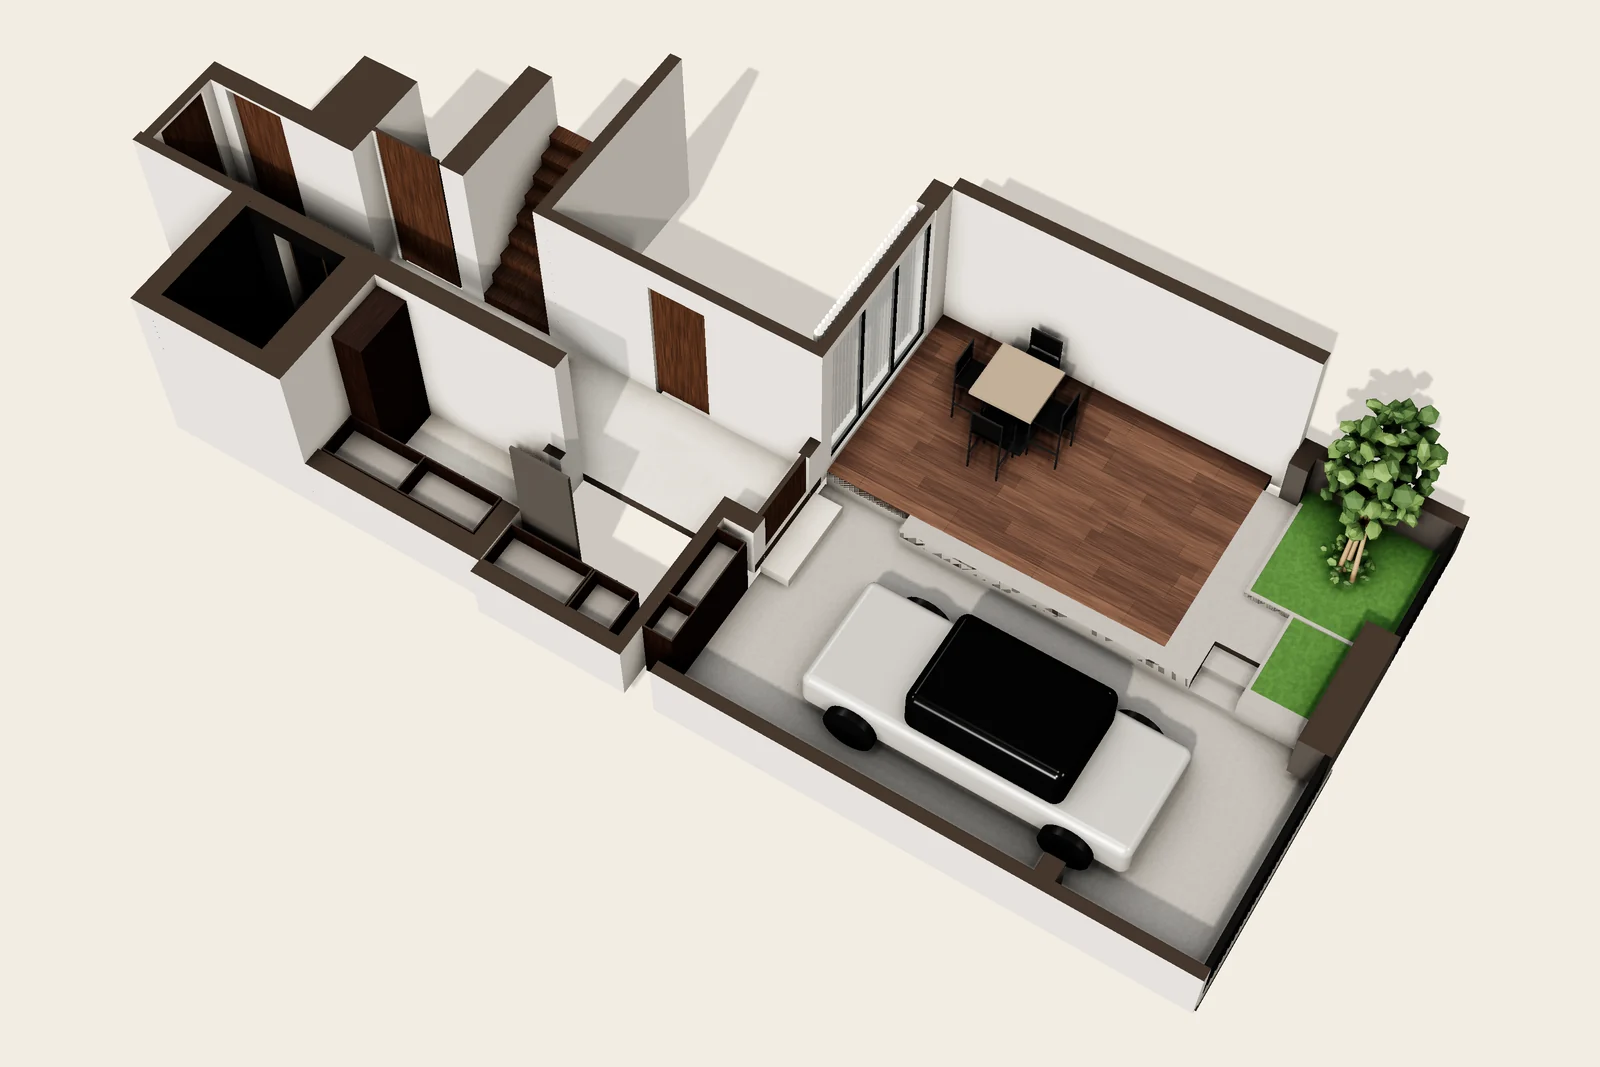
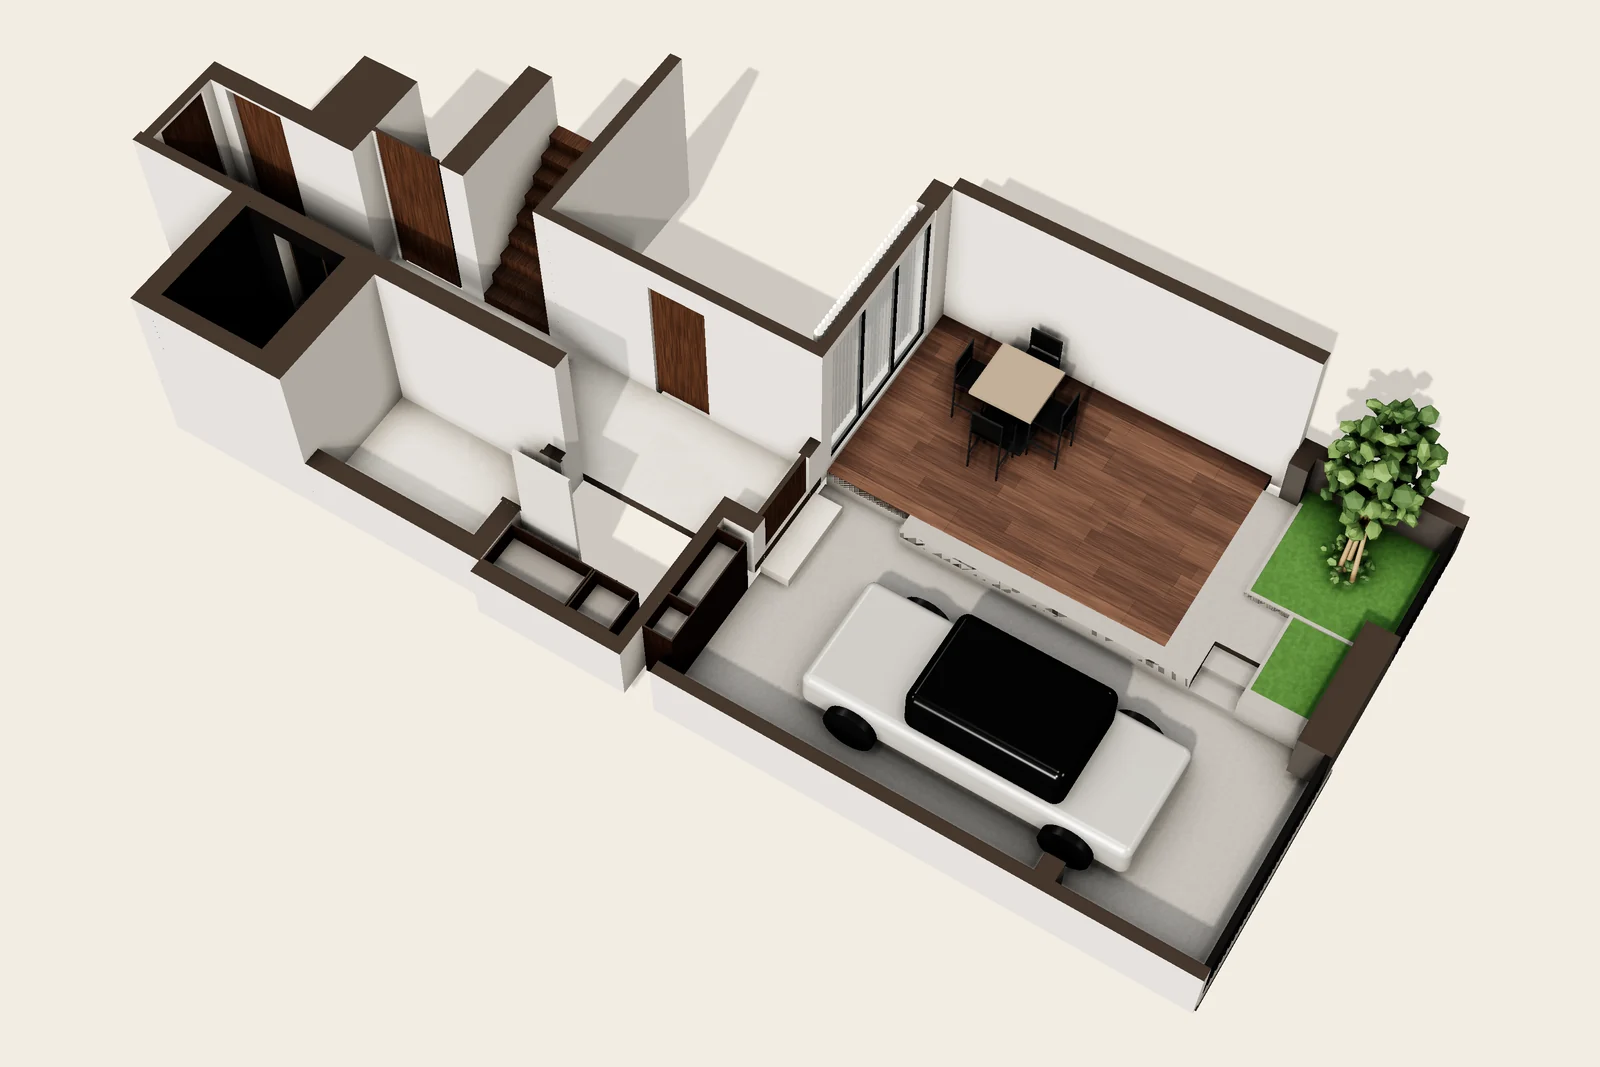
3D: the luggage room as photographed (empty, pale steel shelter door)
No wardrobes inside; a painted steel door frame with a raised sill and the
door shown open. Re-rendered the 1st-floor picture.

Changed region(s): [[0.1875, 0.2474, 0.375, 0.5258]]

diff --git a/assets/js/rooms3d.js b/assets/js/rooms3d.js
@@ -227,6 +227,7 @@ export function materials() {
     cabinetGrey: std({ color: 0x56585b, roughness: 0.7 }),                       // laundry cabinets
     steelDark: std({ color: 0x4b4d50, roughness: 0.4, metalness: 0.6 }),         // fridge
     glow: std({ color: 0xfff4e2, emissive: 0xffe6bf, emissiveIntensity: 1 }),    // LED strips
+    paintedSteel: std({ color: 0xd8d5cf, roughness: 0.55 }),                    // shelter door and frame
     sheer: new THREE.MeshStandardMaterial({ color: 0xdedad3, roughness: 1, transparent: true, opacity: 0.75 }),
   };
 }
@@ -1340,8 +1341,8 @@ function floor1(b) {
   b.wardrobe(1790, 582, 1838, 767, "e", 2.3);
   b.wall(1837, 600, 1840, 750, { h0: 1.02, h1: 1.28, mat: "marble", furniture: true });
 
-  // lift (bronze surround, glass doors) and luggage room (the household shelter: concrete walls,
-  // steel door shown open)
+  // lift (bronze surround, glass doors) and luggage room: the household shelter, empty for
+  // suitcases as in the photos (2026-10-24), its pale steel door shown open over a raised sill
   b.wall(990, 562, 1022, 800, { faces: { e: "black" } });
   b.wall(1195, 562, 1246, 800, { faces: { w: "black" } });
   b.wall(1022, 773, 1195, 800, { faces: { n: "black" } });
@@ -1349,11 +1350,12 @@ function floor1(b) {
   b.wall(1246, 562, 1545, 592);
   b.wall(1246, 770, 1545, 800);
   b.wall(1515, 592, 1545, 607);
-  b.door(1515, 607, 1545, 702);
+  b.door(1515, 607, 1545, 702, { head: 2.05 });
   b.wall(1515, 702, 1545, 800);
-  b.wall(1545, 699, 1640, 704, { h1: 2.05, mat: "pot", keep: true });   // shelter door, open
-  b.wardrobe(1250, 700, 1512, 768, "n", 2.3);
-  b.wardrobe(1250, 596, 1300, 698, "e", 2.3);
+  for (const [y0, y1] of [[605, 611], [698, 704]]) b.wall(1512, y0, 1548, y1, { h1: 2.05, mat: "paintedSteel" });
+  b.wall(1512, 605, 1548, 704, { h0: 1.99, h1: 2.05, mat: "paintedSteel" });   // steel door frame
+  b.box(1515, 611, 1545, 698, 0, 0.08, "paintedSteel");                         // raised sill
+  b.wall(1548, 699, 1640, 704, { h1: 2.0, mat: "paintedSteel", keep: true });   // shelter door, open
   b.wardrobe(1547, 727, 1685, 797, "n", 2.3);
   b.wardrobe(1687, 727, 1757, 797, "n", 2.3);
   b.wall(1545, 797, 1790, 820);
